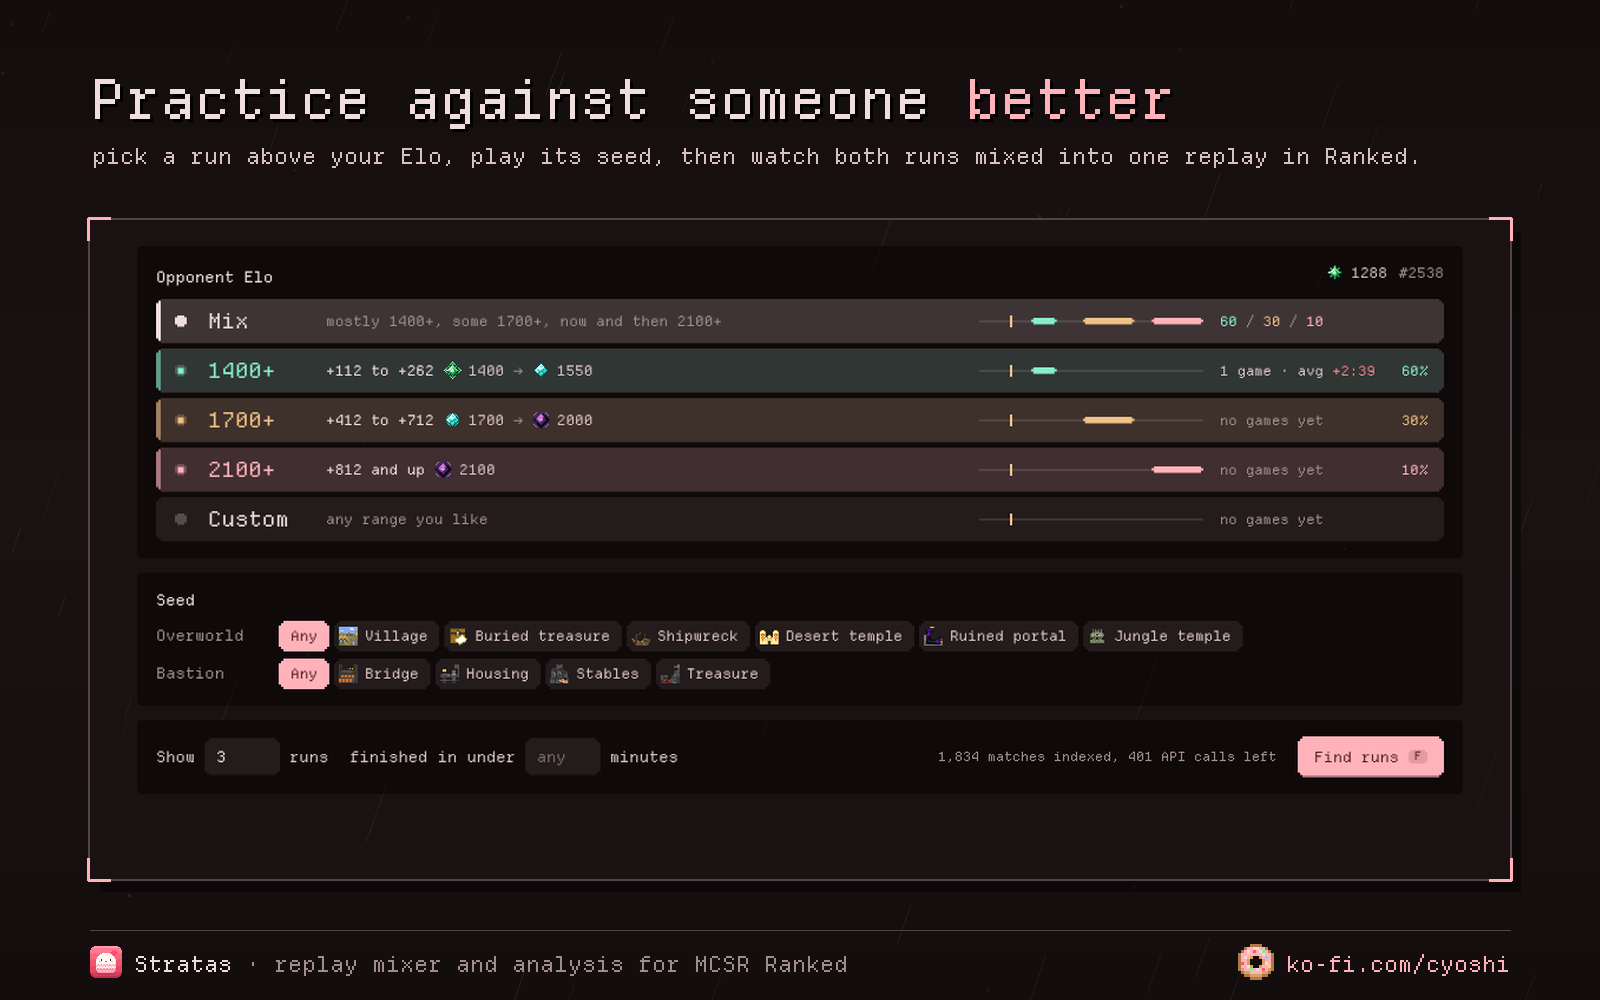
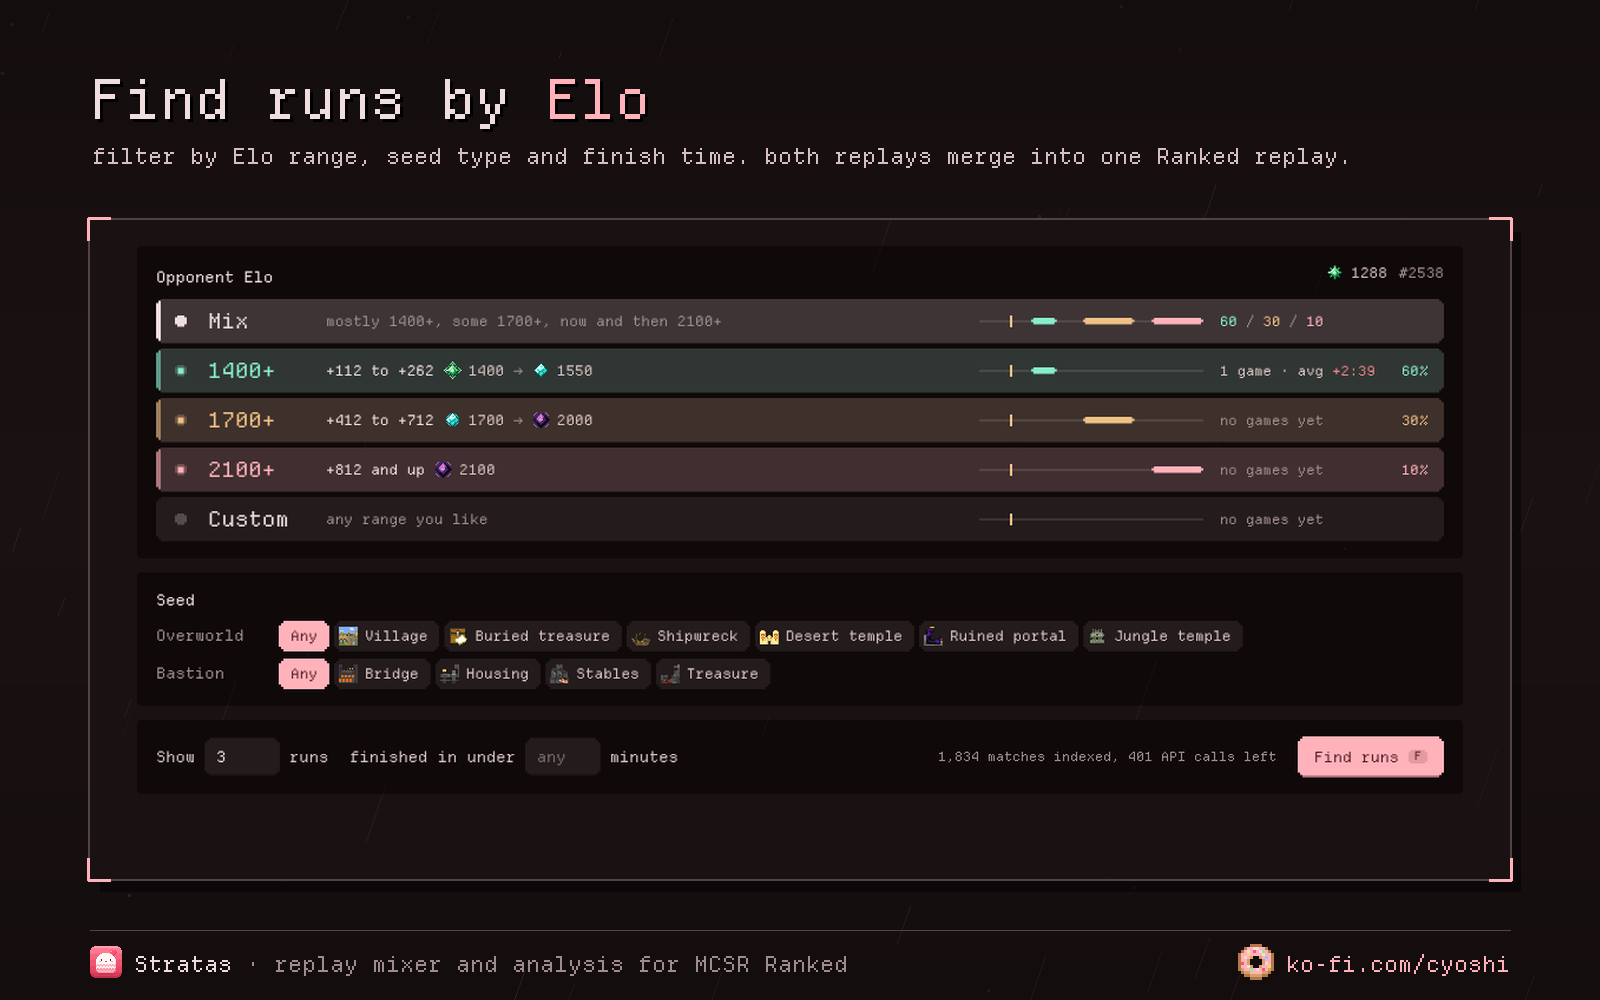
docs: plainer wording on readme cards and website

diff --git a/web/index.html b/web/index.html
@@ -35,7 +35,7 @@
     <main>
       <section class="hero">
         <img class="hero-art" src="../docs/readme/hero.svg" alt="Stratas: replay mixer and analysis for MCSR Ranked" />
-        <h1>Practice against any Elo you want, on the same seed.</h1>
+        <h1>Merges another player's run on the same seed into your Ranked replay.</h1>
         <p class="lead">Play their seed in a private room and Stratas puts both runs in one Ranked replay. No VODs needed.</p>
         <div class="cta">
           <a class="btn primary" href="https://github.com/himetau/stratas/releases/latest/download/Stratas-Setup.exe">Download for Windows</a>
@@ -50,10 +50,10 @@
       </section>
 
       <section class="gallery">
-        <img src="../docs/readme/card-practice.png" alt="Picking who to practice against by Elo" loading="lazy" />
-        <img src="../docs/readme/card-race.png" alt="Your gap to them over the whole run" loading="lazy" />
-        <img src="../docs/readme/card-bastion.png" alt="Zoomed into the bastion, trade by trade" loading="lazy" />
-        <img src="../docs/readme/card-what-to-practice.png" alt="What you should practice" loading="lazy" />
+        <img src="../docs/readme/card-practice.png" alt="Find runs by Elo" loading="lazy" />
+        <img src="../docs/readme/card-race.png" alt="Time difference" loading="lazy" />
+        <img src="../docs/readme/card-bastion.png" alt="Phase detail" loading="lazy" />
+        <img src="../docs/readme/card-what-to-practice.png" alt="Patterns" loading="lazy" />
       </section>
 
       <section class="get" id="download">

diff --git a/README.md b/README.md
@@ -29,8 +29,8 @@ Stratas finds a run from a player at the elo you picked, or from one player you 
 
 <table>
   <tr>
-    <td width="50%"><img src="docs/readme/card-practice.png" alt="Picking opponents by elo"></td>
-    <td width="50%"><img src="docs/readme/card-race.png" alt="Your gap to them over the whole run"></td>
+    <td width="50%"><img src="docs/readme/card-practice.png" alt="Find runs by Elo"></td>
+    <td width="50%"><img src="docs/readme/card-race.png" alt="Time difference"></td>
   </tr>
 </table>
 
@@ -56,12 +56,12 @@ Analyse your match and it gives you detailed information about every segment. Ev
 
 <table>
   <tr>
-    <td width="50%"><img src="docs/readme/card-bastion.png" alt="Zoomed into the bastion"></td>
-    <td width="50%"><img src="docs/readme/card-breakdown.png" alt="Where the time went"></td>
+    <td width="50%"><img src="docs/readme/card-bastion.png" alt="Phase detail"></td>
+    <td width="50%"><img src="docs/readme/card-breakdown.png" alt="Time loss breakdown"></td>
   </tr>
   <tr>
-    <td width="50%"><img src="docs/readme/card-what-to-practice.png" alt="What you should practice"></td>
-    <td width="50%"><img src="docs/readme/card-themes.png" alt="Themes and colours"></td>
+    <td width="50%"><img src="docs/readme/card-what-to-practice.png" alt="Patterns"></td>
+    <td width="50%"><img src="docs/readme/card-themes.png" alt="Themes"></td>
   </tr>
 </table>
 
